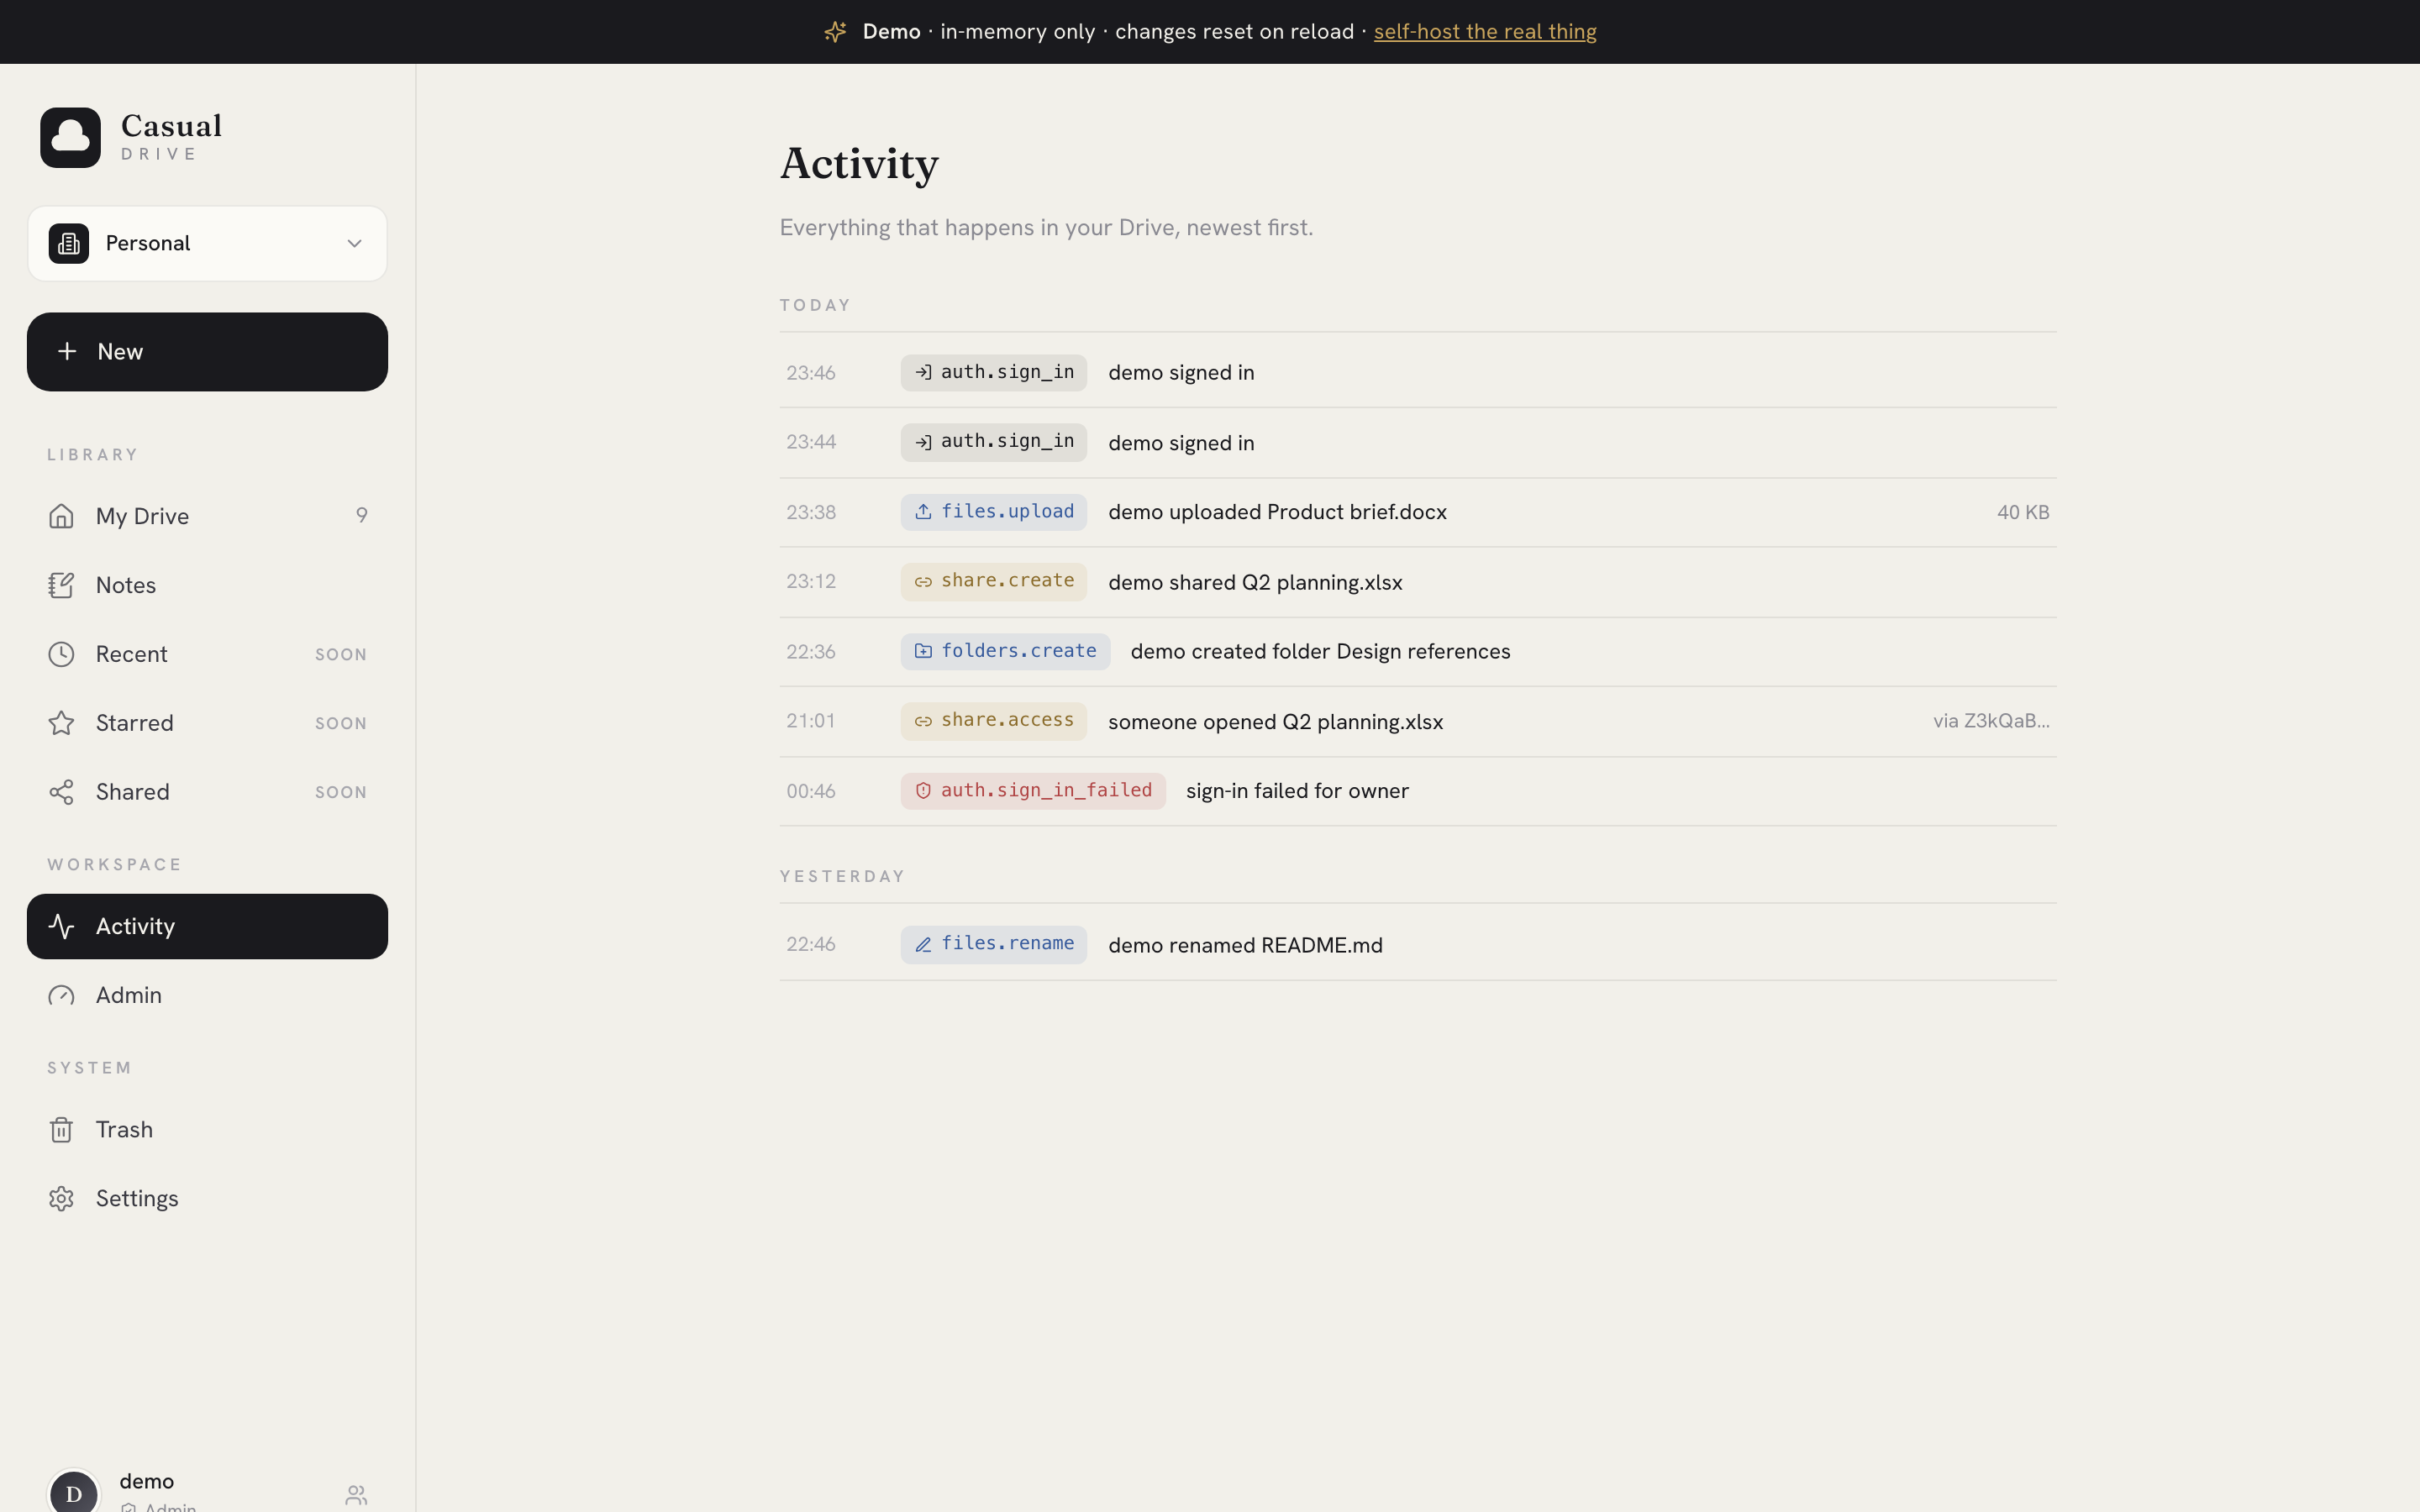
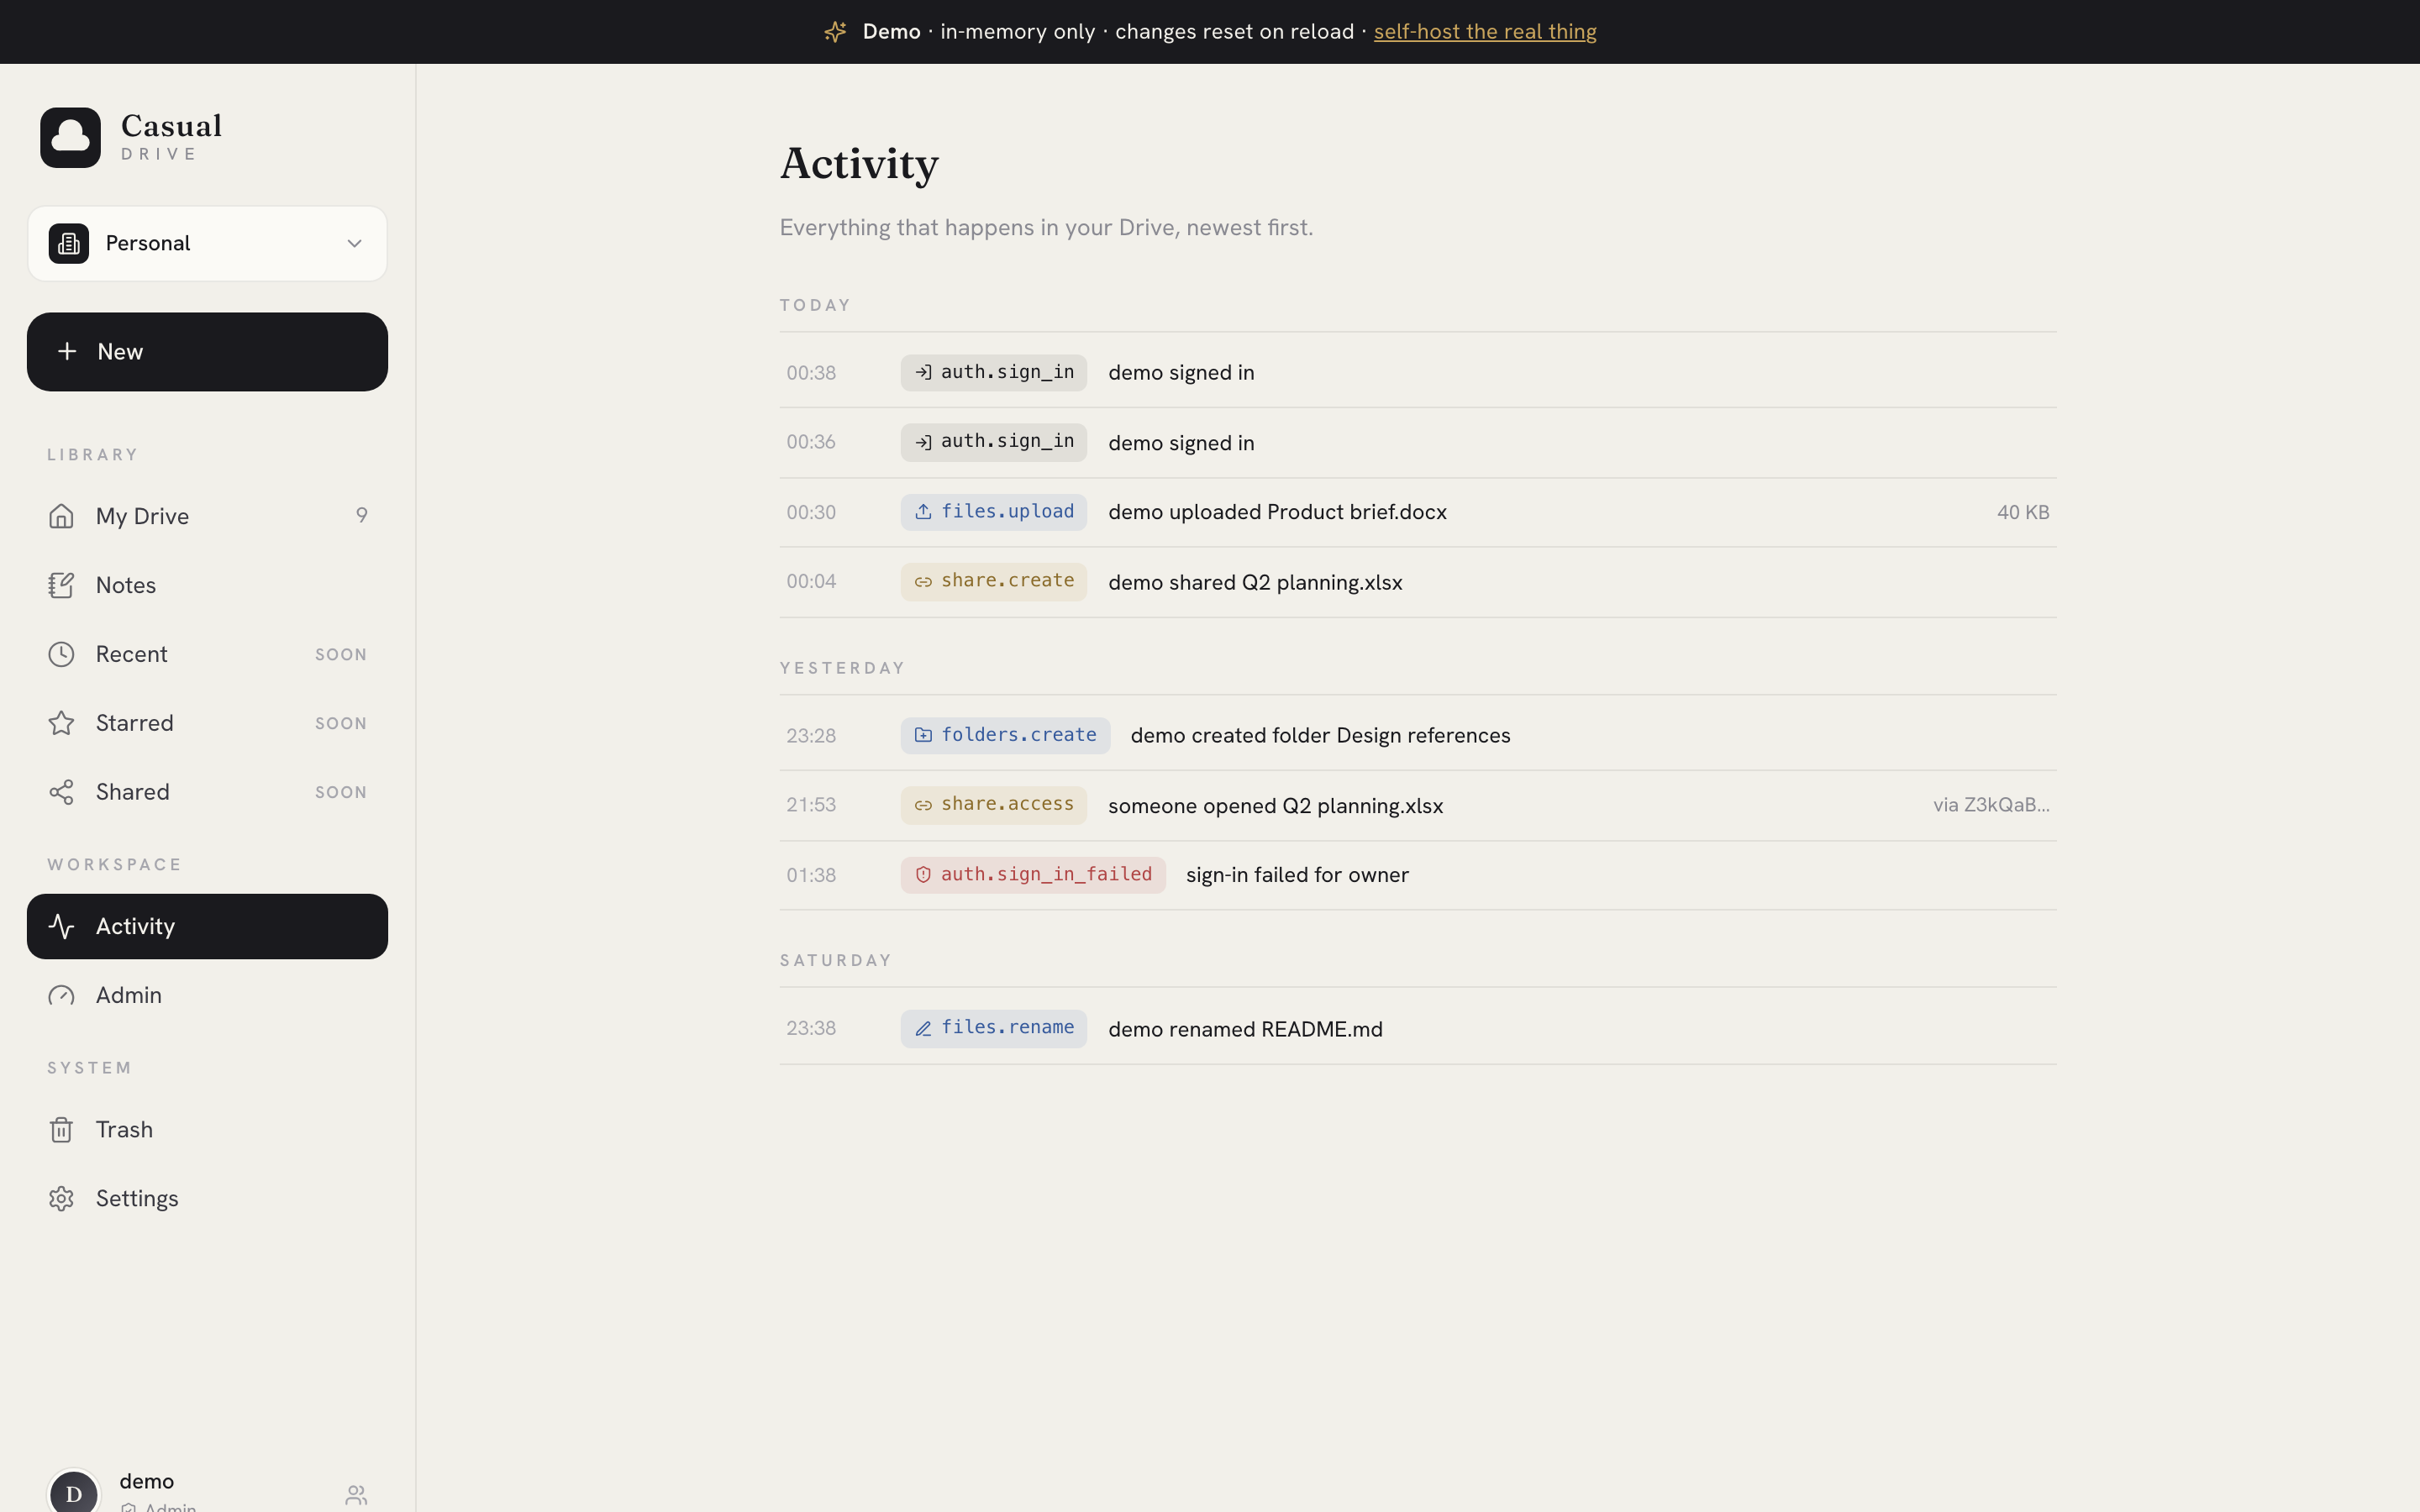
feat(spa+marketing): real dark theme, caps-lock warning, sitemap.xml alias, drive.schnsrw.live CNAME
Pipeline §2.11 + §1.6 + new §15.13b/c + a small Logo correctness fix.

Dark palette (§2.11):
- New `:root[data-theme="dark"]` block in web/src/styles/tokens.css with
  every key from the light palette: ink/paper inversion, accent shift to
  a warmer gold (#D6B574), file-type tints + icon colours retuned for
  contrast on the darker base, shadows blackened. `color-scheme: dark`
  set so native UI (scrollbars, form controls) flips too.
- Mirrored under `@user (prefers-color-scheme: dark)` for the
  ThemeToggle's `system` mode so OS preference applies without an
  explicit toggle.
- Logo cloud now paints with `var(--mark-fg, var(--paper))` instead of
  a hardcoded #F2F0EA — the cloud silhouette inverts cleanly across
  themes (dark mode: cream square, dark cloud).

Caps-lock (§1.6):
- `Input` exposes `onCapsLockChange`, fired on keydown / keyup / blur
  via `KeyboardEvent.getModifierState("CapsLock")`. Only the SignIn
  password field opts in; surfaces a tiny ⇪ warning line under the
  field while Caps Lock is on. Microcopy stays sentence-case + warm
  per the polish commandments.

Sitemap + CNAME (§15.13b + §15.13c — answers the user-reported
"sitemap URLs point at schnsrw.live but the deploy is drive.schnsrw.live"
mismatch):
- `marketing/public/CNAME` (new) → `drive.schnsrw.live`, pinning the
  Pages deploy target in repo.
- `astro.config.mjs` ASTRO_SITE default flipped from `https://schnsrw.live`
  to `https://drive.schnsrw.live`. Sitemap URLs + canonical tags + OG
[…]

diff --git a/web/src/styles/tokens.css b/web/src/styles/tokens.css
@@ -142,6 +142,133 @@
   --z-tooltip:  1600;
 }
 
+/* Color — dark (warm ink). Mirrors the light palette key-for-key so
+   every consumer that already references `var(--paper)`, `var(--ink)`,
+   etc. flips automatically when the html element gains `data-theme="dark"`.
+   Selector list covers both the explicit user choice (`data-theme="dark"`)
+   and the system pref (`data-theme="system"` + OS in dark mode), which is
+   what the ThemeToggle writes. */
+:root[data-theme="dark"],
+.dark {
+  --ink:        #F3F1EA;
+  --ink-soft:   #D9D7D0;
+  --paper:      #0E0E10;
+  --card:       #16161A;
+  --muted:      #8E8E96;
+  --muted-2:    #6E6E76;
+  --accent:     #D6B574;
+  --accent-hover: #E0C386;
+  --accent-muted: rgba(214, 181, 116, 0.14);
+
+  --line:        rgba(243, 241, 234, 0.08);
+  --line-strong: rgba(243, 241, 234, 0.18);
+
+  --bg-hover:    rgba(243, 241, 234, 0.05);
+  --bg-row-hover: rgba(243, 241, 234, 0.03);
+  --bg-selected: rgba(214, 181, 116, 0.16);
+  --bg-subtle:   rgba(243, 241, 234, 0.04);
+  --bg-overlay:  rgba(0, 0, 0, 0.55);
+
+  --fg-onAccent: #14140F;
+
+  --success: #56B687;
+  --warning: #D6B574;
+  --danger:  #D87878;
+  --info:    #7DA2F0;
+
+  /* File-type tints stay subtle on the darker base. */
+  --tint-fold:    rgba(243, 241, 234, 0.04);
+  --tint-doc:     rgba(125, 162, 240, 0.10);
+  --tint-pdf:     rgba(216, 120, 120, 0.10);
+  --tint-sheet:   rgba(86, 182, 135, 0.10);
+  --tint-img:     transparent;
+  --tint-vid:     rgba(168, 132, 200, 0.10);
+  --tint-aud:     rgba(214, 181, 116, 0.12);
+  --tint-text:    rgba(243, 241, 234, 0.05);
+  --tint-md:      rgba(243, 241, 234, 0.05);
+  --tint-generic: rgba(243, 241, 234, 0.04);
+
+  --ic-fold:    var(--ink);
+  --ic-doc:     #7DA2F0;
+  --ic-img:     #86CCA0;
+  --ic-pdf:     #E08A8A;
+  --ic-vid:     #B89BD2;
+  --ic-sheet:   #5BCB95;
+  --ic-aud:     #D6B574;
+  --ic-text:    var(--ink);
+  --ic-md:      var(--ink);
+  --ic-generic: var(--muted);
+
+  --shadow:        0 1px 2px rgba(0, 0, 0, 0.3), 0 8px 30px rgba(0, 0, 0, 0.45);
+  --shadow-hover:  0 2px 4px rgba(0, 0, 0, 0.32), 0 16px 44px rgba(0, 0, 0, 0.55);
+  --shadow-md:     0 4px 12px rgba(0, 0, 0, 0.4);
+  --shadow-lg:     0 10px 30px rgba(0, 0, 0, 0.5);
+  --shadow-xl:     0 30px 80px rgba(0, 0, 0, 0.7);
+  --shadow-button: 0 10px 24px rgba(0, 0, 0, 0.5);
+
+  color-scheme: dark;
+}
+
+/* When the user picks "system", honour the OS preference. The toggle
+   removes the data-theme attribute entirely in that mode, so we fall
+   through to this @media block. */
+@media (prefers-color-scheme: dark) {
+  :root:not([data-theme]),
+  :root[data-theme="system"] {
+    --ink:        #F3F1EA;
+    --ink-soft:   #D9D7D0;
+    --paper:      #0E0E10;
+    --card:       #16161A;
+    --muted:      #8E8E96;
+    --muted-2:    #6E6E76;
+    --accent:     #D6B574;
+    --accent-hover: #E0C386;
+    --accent-muted: rgba(214, 181, 116, 0.14);
+
+    --line:        rgba(243, 241, 234, 0.08);
+    --line-strong: rgba(243, 241, 234, 0.18);
+
+    --bg-hover:    rgba(243, 241, 234, 0.05);
+    --bg-row-hover: rgba(243, 241, 234, 0.03);
+    --bg-selected: rgba(214, 181, 116, 0.16);
+    --bg-subtle:   rgba(243, 241, 234, 0.04);
+    --bg-overlay:  rgba(0, 0, 0, 0.55);
+
+    --fg-onAccent: #14140F;
+
+    --success: #56B687;
+    --warning: #D6B574;
+    --danger:  #D87878;
+    --info:    #7DA2F0;
+
+    --tint-fold:    rgba(243, 241, 234, 0.04);
+    --tint-doc:     rgba(125, 162, 240, 0.10);
+    --tint-pdf:     rgba(216, 120, 120, 0.10);
+    --tint-sheet:   rgba(86, 182, 135, 0.10);
+    --tint-img:     transparent;
+    --tint-vid:     rgba(168, 132, 200, 0.10);
+    --tint-aud:     rgba(214, 181, 116, 0.12);
+    --tint-text:    rgba(243, 241, 234, 0.05);
+    --tint-md:      rgba(243, 241, 234, 0.05);
+    --tint-generic: rgba(243, 241, 234, 0.04);
+
+    --ic-doc:     #7DA2F0;
+    --ic-img:     #86CCA0;
+    --ic-pdf:     #E08A8A;
+    --ic-vid:     #B89BD2;
+    --ic-sheet:   #5BCB95;
+
+    --shadow:        0 1px 2px rgba(0, 0, 0, 0.3), 0 8px 30px rgba(0, 0, 0, 0.45);
+    --shadow-hover:  0 2px 4px rgba(0, 0, 0, 0.32), 0 16px 44px rgba(0, 0, 0, 0.55);
+    --shadow-md:     0 4px 12px rgba(0, 0, 0, 0.4);
+    --shadow-lg:     0 10px 30px rgba(0, 0, 0, 0.5);
+    --shadow-xl:     0 30px 80px rgba(0, 0, 0, 0.7);
+    --shadow-button: 0 10px 24px rgba(0, 0, 0, 0.5);
+
+    color-scheme: dark;
+  }
+}
+
 /* Tailwind v4 @theme bridge */
 @theme {
   --color-ink:        var(--ink);

diff --git a/web/src/pages/SignIn.tsx b/web/src/pages/SignIn.tsx
@@ -12,6 +12,7 @@ export function SignIn() {
   const { signIn } = useAuth();
   const [username, setUsername] = useState(DEMO_MODE ? DEMO_USERNAME : "");
   const [password, setPassword] = useState(DEMO_MODE ? DEMO_PASSWORD : "");
+  const [capsOn, setCapsOn] = useState(false);
   const [busy, setBusy] = useState(false);
   const [error, setError] = useState<string | null>(null);
   const [shake, setShake] = useState(false);
@@ -137,7 +138,24 @@ export function SignIn() {
             invalid={error !== null}
             value={password}
             onChange={(v) => setPassword(v)}
+            onCapsLockChange={setCapsOn}
           />
+          {capsOn && (
+            <div
+              role="status"
+              style={{
+                marginTop: 2,
+                fontSize: "var(--text-xs)",
+                color: "var(--warning)",
+                display: "flex",
+                alignItems: "center",
+                gap: 6,
+              }}
+            >
+              <span aria-hidden="true" style={{ fontSize: 10 }}>⇪</span>
+              Caps Lock is on.
+            </div>
+          )}
         </div>
 
         {error && (
@@ -217,6 +235,7 @@ function Input({
   invalid,
   value,
   onChange,
+  onCapsLockChange,
 }: {
   type: "text" | "password";
   name: string;
@@ -227,6 +246,10 @@ function Input({
   invalid?: boolean;
   value: string;
   onChange: (v: string) => void;
+  /** Fires when the keyboard's Caps Lock modifier flips while this input
+   * has focus. Used by the sign-in form to surface a one-line warning
+   * under the password field — silent for other inputs. */
+  onCapsLockChange?: (on: boolean) => void;
 }) {
   return (
     <input
@@ -239,6 +262,8 @@ function Input({
       aria-invalid={invalid || undefined}
       value={value}
       onChange={(e) => onChange(e.target.value)}
+      onKeyDown={(e) => onCapsLockChange?.(e.getModifierState("CapsLock"))}
+      onKeyUp={(e) => onCapsLockChange?.(e.getModifierState("CapsLock"))}
       style={{
         width: "100%",
         padding: "12px 14px",
@@ -258,6 +283,7 @@ function Input({
       onBlur={(e) => {
         e.currentTarget.style.borderColor = invalid ? "var(--danger)" : "var(--line)";
         e.currentTarget.style.boxShadow = "";
+        onCapsLockChange?.(false);
       }}
     />
   );

diff --git a/marketing/src/pages/sitemap.xml.ts b/marketing/src/pages/sitemap.xml.ts
@@ -1,0 +1,25 @@
+/**
+ * `/sitemap.xml` alias. Astro's @astrojs/sitemap emits `sitemap-index.xml`
+ * + `sitemap-N.xml`, which is the spec-correct shape — but humans (and a
+ * few legacy crawlers) hit `/sitemap.xml` first by convention. This route
+ * mirrors the index so both URLs resolve.
+ *
+ * `prerender = true` keeps it a static file at build time.
+ */
+import type { APIRoute } from "astro";
+
+export const prerender = true;
+
+export const GET: APIRoute = ({ site }) => {
+  const origin = (site?.toString() ?? "https://schnsrw.live").replace(/\/$/, "");
+  // Mirror the @astrojs/sitemap index format byte-for-byte so crawlers
+  // see identical content at either URL.
+  const body =
+    `<?xml version="1.0" encoding="UTF-8"?>` +
+    `<sitemapindex xmlns="http://www.sitemaps.org/schemas/sitemap/0.9">` +
+    `<sitemap><loc>${origin}/sitemap-0.xml</loc></sitemap>` +
+    `</sitemapindex>`;
+  return new Response(body, {
+    headers: { "content-type": "application/xml; charset=utf-8" },
+  });
+};

diff --git a/web/src/components/Logo.tsx b/web/src/components/Logo.tsx
@@ -24,7 +24,10 @@ export function Logo({ size = 38, className }: { size?: number; className?: stri
       </defs>
       <g clipPath="url(#cd-mark-clip)">
         <rect width="38" height="38" fill="currentColor" />
-        <g fill="var(--mark-fg, #F2F0EA)">
+        {/* Cloud paints in the "paper" colour so it stays opposite the
+            square's currentColor whichever theme is active: light mode →
+            dark square, cream cloud; dark mode → cream square, dark cloud. */}
+        <g fill="var(--mark-fg, var(--paper, #F2F0EA))">
           <circle cx="12" cy="22" r="5" />
           <circle cx="26" cy="22" r="5" />
           <circle cx="19" cy="15" r="7.5" />

diff --git a/PIPELINE.md b/PIPELINE.md
@@ -33,7 +33,7 @@
 | 1.3 | Session cookie (`__Host-cd_sid` Secure HttpOnly SameSite=Lax) | ✅ done | P0 | server-side store in sqlite |
 | 1.4 | Argon2id passwords (OWASP min) | ✅ done | P0 | drive-auth |
 | 1.5 | Sign-out (cookie clear + 401 on session expiry → re-auth flow) | ✅ done | P0 | wired via AuthContext |
-| 1.6 | Caps-lock detection on password | ⬜ todo | P2 | small, easy |
+| 1.6 | Caps-lock detection on password | ✅ done | P2 | `Input` listens to `keydown`/`keyup`/`blur` and forwards the `getModifierState("CapsLock")` value; SignIn shows a one-line ⇪ warning under the field when on |
 | 1.7 | "Sign in with [SSO]" stub | ⏸ v0.2+ | — | OIDC is Phase 3 |
 | 1.8 | First-run admin-setup wizard (no env-only) | ✅ done | P1 | `Setup.tsx` flips on `/api/setup/status` → `needs_setup: true`; `/api/setup/admin` creates the first admin + their Personal workspace |
 
@@ -51,7 +51,7 @@
 | 2.8 | Cmd-K command palette (cmdk) | ✅ done | P1 | `CommandPalette` mounted in `Shell`. ⌘K/Ctrl-K from anywhere outside an input. Grouped results (Go to · Folders · Files · Notes), debounced parallel search over `/api/search` + `/api/notes/search`, workspace-scoped. Selecting a file fires `cd:open-file` (Files listens, opens preview); selecting a note fires `cd:open-note` (Notes listens, opens it) |
 | 2.9 | Top bar notifications bell | ✅ done | P2 | `NotificationsBell` reads recipient-facing recent activity |
 | 2.10 | Help (keyboard-shortcuts modal `?`) | ✅ done | P2 | `HelpModal`; `?` / `Shift-/` opens from anywhere outside an input |
-| 2.11 | Theme toggle | 🟡 wip | P2 | `ThemeToggle` component is in the tree, but `tokens.css` has no dark palette yet — toggling changes the attribute, nothing visible |
+| 2.11 | Theme toggle + dark palette | ✅ done | P2 | dark token set under `:root[data-theme="dark"]` mirrored under `@media (prefers-color-scheme: dark)` for the `system` mode. ThemeToggle cycles light → dark → system. Logo cloud uses `--paper` so the mark inverts cleanly across themes. Screenshot harness captures both themes (light primary, `*-dark.png` alongside) |
 
 ## 3 — File browser (main pane)
 
@@ -235,6 +235,8 @@ Spec: [[07-marketing-site]] + [[14-marketing-surface]]. Astro 5, multi-page docs
 | 15.12 | i18n | ⏸ v0.2+ | — | English-only; structure leaves room for astro-i18n |
 | 15.13 | Domain flip (drive.schnsrw.live → schnsrw.live apex / casualoffice.org) | ⬜ todo | P1 | OLD CNAME at `web/public/CNAME` is now orphaned (deploy artifact is `marketing/dist`). Add `marketing/public/CNAME` when DNS decided; set repo `MARKETING_SITE_URL` variable |
 | 15.13a | Dynamic `robots.txt` keyed to `ASTRO_SITE` | ✅ done | P1 | converted from static `public/robots.txt` to `src/pages/robots.txt.ts` |
+| 15.13b | `/sitemap.xml` convenience alias | ✅ done | P2 | `src/pages/sitemap.xml.ts` mirrors the @astrojs/sitemap index. Humans + legacy crawlers that hit `/sitemap.xml` by convention now resolve; spec-correct `/sitemap-index.xml` continues to ship |
+| 15.13c | `marketing/public/CNAME` for `drive.schnsrw.live` | ✅ done | P0 | the marketing artifact is the Pages deploy target now; CNAME pins the Pages domain in repo + `astro.config.mjs` defaults `ASTRO_SITE` to `https://drive.schnsrw.live` so sitemap URLs match the deploy |
 
 ---
 